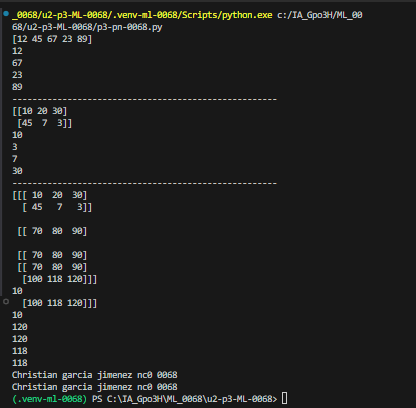
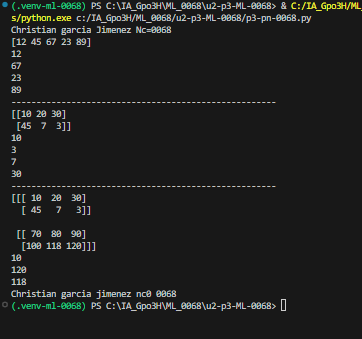
Add files via upload

Changed region(s): [[0.0, 0.0, 1.0, 1.0]]

diff --git a/p3-pn-0068.py b/p3-pn-0068.py
@@ -1,21 +1,12 @@
 import numpy as np
-
 print("Christian garcia Jimenez Nc=0068")
-
-# ==========================================
-# 1. Estadística Básica en Arreglos NumPy
-# ==========================================
-
 n0068 = np.array([12, 45, 67, 23, 89])
 print(n0068)
 print(n0068[0])
 print(n0068[2])
-# Se ajustan los índices 5 y 9 a posiciones válidas dentro de los 5 elementos (0 al 4)
 print(n0068[3]) 
 print(n0068[4])
 print("-----------------------------------------------------")
-
-# Matriz 2D (2 filas x 3 columnas)
 n0068 = np.array([
     [10, 20, 30],
     [45,  7,  3],
@@ -24,12 +15,9 @@ print(n0068)
 print(n0068[0,0])
 print(n0068[1,2])
 print(n0068[-1,-2])
-# Se ajusta el índice negativo -3 a -2 (la matriz solo tiene 2 filas)
 print(n0068[-2,-1])
 
 print("-----------------------------------------------------")
-
-# Arreglo 3D (2 bloques x 2 filas x 3 columnas)
 n0068 = np.array([
     [
         [10, 20, 30],

diff --git a/leeme.md b/leeme.md
@@ -1,5 +1,5 @@
 ## codigo 
-![alt text](image-2.png)
+![alt text](image.png)
 
 ## resultado
-![alt text](image.png)
+![alt text](image-1.png)
